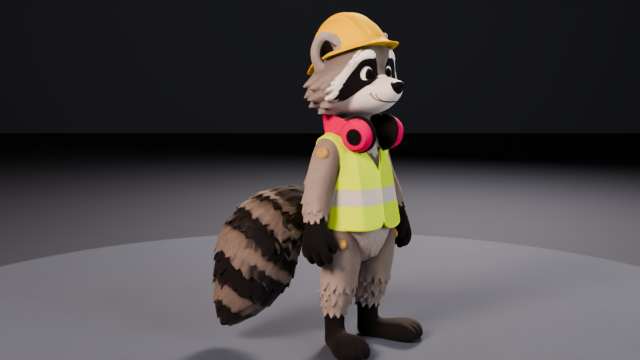
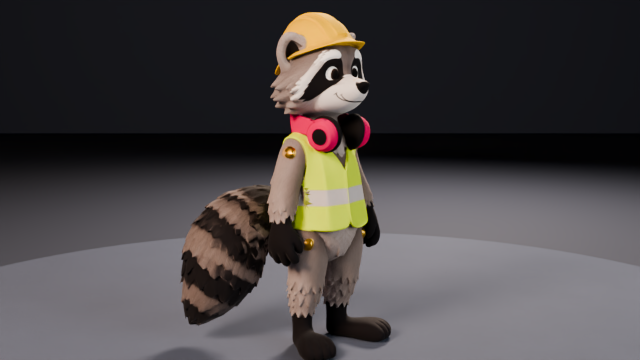
Pickles rig on client sculpt: biped IK rig, rigid hat/headphones, 5 replacement faces, push pose
Claude-Session: https://claude.ai/code/session_01BntmWCku4jb1pF4QRZCMzN

Changed region(s): [[0.2188, 0.0306, 0.6875, 1.0]]

diff --git a/scripts/builders/_rigkit_pickles.py b/scripts/builders/_rigkit_pickles.py
@@ -363,7 +363,9 @@ def skin(ob, arm, coll, co, col):
     J_ = {n: j for j, n in enumerate(names)}
     px = heat_proxy(ob, arm, coll)
     transfer_weights(px, ob, names)
+    px_me = px.data
     bpy.data.objects.remove(px, do_unlink=True)
+    bpy.data.meshes.remove(px_me)
     W = read_weights(ob, names)
     edges = _neighbours(ob.data)
     m = classify(co, col)
@@ -640,14 +642,14 @@ def paint_faces(ob, co, col, base_img_path, out_dir, names):
     def eyes_closed(img):
         for side in ("R", "L"):
             cx, cz, rx, rz = FACE["eye_" + side]
-            paint(img, _sstep(_ellipse_d(px, pz, cx, cz, rx + 0.004, rz + 0.004), F), mask_black,
-                  0.1)
+            paint(img, _sstep(_ellipse_d(px, pz, cx, cz, rx + 0.007, rz + 0.007), F * 2),
+                  mask_black, 0.0)
             arc = _arc(cx, rx * 0.95, cz + 0.004, cz - 0.009)       # sleepy lid, bowed down
-            paint(img, _sstep(_band_d(px, pz, arc, cx - rx * 0.95, cx + rx * 0.95, 0.0022), F),
-                  eye_white, 0.2)
+            paint(img, _sstep(_band_d(px, pz, arc, cx - rx * 0.95, cx + rx * 0.95, 0.0026), F),
+                  eye_white, 0.0)
             arc2 = _arc(cx, rx * 0.45, cz - 0.008, cz - 0.013)      # lash line underneath
             paint(img, _sstep(_band_d(px, pz, arc2, cx - rx * 0.4, cx + rx * 0.4, 0.0012), F),
-                  eye_white * 0.8, 0.2)
+                  eye_white * 0.8, 0.0)
 
     def small_pupils(img, scale=0.62):
         for side in ("R", "L"):
@@ -663,8 +665,8 @@ def paint_faces(ob, co, col, base_img_path, out_dir, names):
     def erase_mouth(img):
         cx, hw, zc, zb = FACE["mouth"]
         arc = _arc(cx, hw, zc, zb)
-        paint(img, _sstep(_band_d(px, pz, arc, cx - hw - 0.008, cx + hw + 0.008, 0.0075), F * 2),
-              white, 0.5)
+        paint(img, _sstep(_band_d(px, pz, arc, cx - hw - 0.012, cx + hw + 0.012, 0.009), F * 2),
+              white, 0.0)
 
     def draw_brows(img, dz, tilt):
         for side, sgn in (("R", -1), ("L", 1)):
@@ -677,16 +679,16 @@ def paint_faces(ob, co, col, base_img_path, out_dir, names):
     def erase_brows(img):
         for side in ("R", "L"):
             bx, bz, bw, bh = FACE["brow_" + side]
-            d = _ellipse_d(px, pz, bx, bz, bw + 0.006, bh + 0.004)
-            above_mask = pz > 1.165
-            paint(img, _sstep(d, F * 3) * above_mask, grey, 0.6)
+            d = _ellipse_d(px, pz, bx, bz, bw + 0.008, bh + 0.006)
+            above_mask = _sstep(1.166 - pz, F * 2)
+            paint(img, _sstep(d, F * 3) * above_mask, grey, 0.0)
 
     variants = {
         "neutral": [],
         "blink": [eyes_closed],
         "smile": [lambda im: grin(im)],
         "whoa": [erase_mouth, small_pupils, lambda im: o_mouth(im)],
-        "brows_up": [erase_brows, lambda im: draw_brows(im, 0.014, 0.008)],
+        "brows_up": [erase_brows, lambda im: draw_brows(im, 0.006, 0.012)],
     }
 
     def grin(img):
@@ -715,6 +717,18 @@ def paint_faces(ob, co, col, base_img_path, out_dir, names):
         paint(img, _sstep(_ellipse_d(px, pz, cx, cz, 0.019, 0.025), F), mouth_dark, 0.05)
         paint(img, _sstep(_ellipse_d(px, pz, cx, cz - 0.014, 0.014, 0.008), F), tongue, 0.1)
 
+    # texture fix shared by every face: the sculpt texture has lime vest texels on the mitten
+    # (right thumb tip); repaint them mitten-black
+    hand = ((np.abs(x) > 0.165) & (z > 0.34) & (z < 0.56) & (y < 0.07) & (y > -0.13))
+    hr, hc, hp = texel_positions(ob, co, hand, (W, H))
+    hcol = base[hr, hc]
+    hh, hs, hv = _hsv(hcol)
+    in_hand = (np.abs(hp[:, 0]) > 0.17) & (hp[:, 2] < 0.482)   # below the vest hem
+    lime_t = in_hand & (hh > 50) & (hh < 100) & (hs > 0.35) & (hv > 0.3)
+    dark_t = in_hand & (hv < 0.15)
+    if lime_t.any() and dark_t.any():
+        mitten = np.median(hcol[dark_t], 0)
+        base[hr[lime_t], hc[lime_t]] = mitten + rng.normal(0, 0.01, (int(lime_t.sum()), 1))
     paths = []
     for i, n in enumerate(names):
         img = base.copy()
@@ -776,13 +790,15 @@ def face_switch(mat, root, face_paths):
     val.location = (-1400, 700)
     fc = val.outputs[0].driver_add("default_value")
     drv = fc.driver
-    drv.type = "AVERAGE"
+    drv.type = "SCRIPTED"   # simple expression: evaluates without Python auto-exec
     var = drv.variables.new()
     var.name = "face"
     var.type = "SINGLE_PROP"
     var.targets[0].id_type = "OBJECT"
     var.targets[0].id = root
     var.targets[0].data_path = '["face"]'
+    drv.expression = "face"
+    drv.is_valid = True     # it may have been flagged while the variable was still empty
     uses = [l for l in nt.links if l.from_node == tex0 and l.from_socket.name == "Color"]
     prev = tex0.outputs["Color"]
     tex0.image = bpy.data.images.load(face_paths[0], check_existing=True)
@@ -843,7 +859,11 @@ def face_rig(root, body, co, col, face_dir, names, src_png, force=False):
     ui = root.id_properties_ui("face")
     ui.update(min=0, max=len(names) - 1, soft_min=0, soft_max=len(names) - 1,
               description="Replacement face: " + ", ".join(f"{i} {n}" for i, n in enumerate(names)))
-    return face_switch(body.data.materials[0], root, paths)
+    root.update_tag()                     # the evaluated copy must carry the new property,
+    bpy.context.view_layer.update()       # else the driver's first evaluation fails for good
+    val = face_switch(body.data.materials[0], root, paths)
+    bpy.context.view_layer.update()
+    return val
 
 
 def brass_pins(body, co, col, src_png, mask_path, force=False):

diff --git a/scripts/builders/pickles.py b/scripts/builders/pickles.py
@@ -20,7 +20,7 @@ Bones (Pickles_rig):
 Hands and feet copy the rotation of their IK controls. No jaw: the mouth is painted, faces swap.
 
 Faces (Pickles_root["face"]): 0 neutral, 1 blink, 2 smile, 3 whoa, 4 brows_up.
-Poses: pose_rest(root), pose_push(root, bar_y, bar_z), pose_test(root).
+Poses: pose_rest(root), pose_push(root, bar_y, bar_z), pose_test(root). Faces: set_face(root, i).
 """
 import math
 import os
@@ -67,6 +67,16 @@ def build(coll):
         "origin)." % (off.x, off.y, ", ".join(FACES), *PUSH_BAR))
     pose_rest(root)
     return root
+
+
+# ------------------------------------------------------------------------------ faces
+
+def set_face(root, i):
+    """Select replacement face i (0..4). Keyframe root["face"] for animation (constant
+    interpolation); from Python, use this so the depsgraph sees the change."""
+    root["face"] = int(i)
+    root.update_tag()
+    bpy.context.view_layer.update()
 
 
 # ------------------------------------------------------------------------------ posing

diff --git a/scripts/render_pickles_checks.py b/scripts/render_pickles_checks.py
@@ -113,8 +113,7 @@ if a.what in ("faces", "all"):
     set_view(-12, 1.1, 1.12, target=(0, 0, 1.09), lens=60)
     shots = []
     for f in (int(x) for x in a.faces.split(",")):
-        root["face"] = f
-        scene.frame_set(scene.frame_current)
+        pickles.set_face(root, f)
         shots.append(render(os.path.join(a.out, f"_fc_{f}.png")))
     tile(shots, os.path.join(a.out, "faces_grid.png"), cols=min(3, len(shots)))
-    root["face"] = 0
+    pickles.set_face(root, 0)
